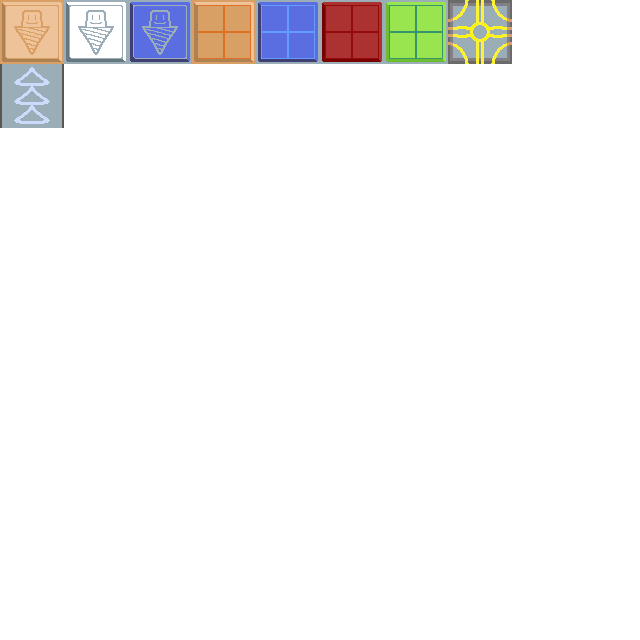
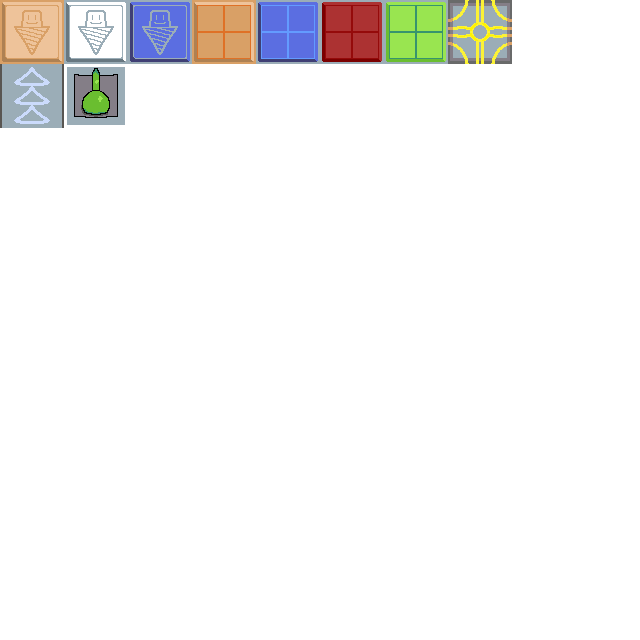
Pre-stable release

Changed region(s): [[0.0938, 0.0938, 0.2188, 0.2188]]

diff --git a/main.py b/main.py
@@ -21,17 +21,25 @@ if __name__ == "__main__":
 import random
 from PyQt5 import Qt
 from pygame_textinput import TextInputVisualizer
-from config import release, music_player
+from assets.scripts.config import release, music_player
 from assets.scripts.loggers import logger
-from assets.sprites.sprite import *
+from assets.scripts.sprite import *
 from assets.scripts.events import *
-from building import init as BuilderInit
-from button import Button, ButtonGroup
-from level import LevelLoader
-from ui import IngameUI
+from assets.scripts.building import init as BuilderInit
+from assets.scripts.button import Button, ButtonGroup
+from assets.scripts.level import LevelLoader
+from assets.scripts.ui import IngameUI
 from assets.scripts.profile_group import ProfileGroup
 from assets.scripts.fonts import *
 from assets.scripts.scroll_area import ScrollArea
+
+# class TurretGroup(pygame.sprite.Group):
+#     def __init__(self, *groups):
+#         super().__init__(*groups)
+
+#     def update(self, dt, mobs) -> None:
+#         pass
+
 
 
 class MobGroup(pygame.sprite.Group):
@@ -308,6 +316,7 @@ class Game:
         BUILDER = BuilderInit((3040, 3040), LevelLoader.ore_dict, base_rect)
 
         Bullet.init()
+
         UI = IngameUI(self.screen.get_size(), map_name, wave_info, timer_break)
         UI.initUI()
         UI.start_timer(timer_break)
@@ -321,6 +330,7 @@ class Game:
         camera_group = CameraGroup(LevelLoader.whole_map, base, player_shadow, player, BUILDER.building_sprite)
         bullet_group = pygame.sprite.Group()
         mob_group = MobGroup(spawn_rect, waypoints, camera_group)
+        Turret.set_groups(bullet_group, camera_group)
 
         def place_building_if_can():
             # Если здание выбрано к стройке и клик был не на UI
@@ -346,11 +356,6 @@ class Game:
                     pygame.quit()
                     sys.exit()
                 elif event == SAVE_AND_RETURN:
-                    print(event)
-                    if hasattr(event, 'max_score'):
-                        print("YES")
-                        print(event.max_score)
-
                     run = False
                     base = None
                     UI = None
@@ -425,7 +430,9 @@ class Game:
                         else:
                             BUILDER.delete_build_on_click(event.pos + camera_group.offset)
                 elif event == GAME_ENDED:
-                    return UI.end_game(mob_group.total_killed)
+                    score = UI.end_game(mob_group.total_killed)
+                    print('DA SCORE IS', score)
+                    return 
                 elif event == WAVE_CLEARED:
                     pass
                 elif event == WAVE_STARTS:
@@ -440,7 +447,7 @@ class Game:
             player.update(dt)
             player_shadow.update()
 
-            BUILDER.update(dt)
+            BUILDER.update(dt, mob_group)
 
             # Двигаем все выпущенные пули и проверяем коллизию
             bullet_group.update(dt / 1000)

diff --git a/assets/scripts/building.py b/assets/scripts/building.py
@@ -1,5 +1,5 @@
 import pygame
-from assets.sprites.sprite import Harvester, Wall, Conveyor
+from assets.scripts.sprite import Harvester, Wall, Conveyor, Turret
 import copy
 import os.path
 
@@ -42,6 +42,7 @@ def init(level_size, ore_dict, base_pos):
     spriteSheetData[0][5] = ('Hematite wall', 'Wall', 300)
     spriteSheetData[0][6] = ('Emerald wall', 'Wall', 500)
     spriteSheetData[1][0] = ('Conveyor', 'Conveyor', 50)
+    spriteSheetData[1][1] = ('Emerald turret', 'Turret', 100)
 
     # Загружаем spritesheet с 3x3 зданиями
     pass
@@ -61,6 +62,7 @@ def init(level_size, ore_dict, base_pos):
         # Группы с апдейтами
         harvester_group = StructureGroup()
         conveyers_group = StructureGroup()
+        turret_group = StructureGroup()
 
         conveyors_to_looks = dict()  # Used by conveyors in self with "rects_to_conveyors"
         rects_to_conveyors = dict()  # Used by harvesters
@@ -78,9 +80,10 @@ def init(level_size, ore_dict, base_pos):
             cls.build_registry.append(build)
         
         @classmethod
-        def update(cls, dt):
+        def update(cls, dt, mobs=None):
             cls.harvester_group.update(dt / 1000)
             cls.conveyers_group.update(dt / 1000, cls.rects_to_conveyors, base_pos)
+            cls.turret_group.update(dt, mobs)
 
         @classmethod
         def lock(cls):
@@ -110,6 +113,8 @@ def init(level_size, ore_dict, base_pos):
                     if is_conveyor:
                         for harvester in cls.harvester_group.sprites:
                             harvester.update_conveyor_info(cls.rects_to_conveyors)
+                    elif build.type == 'Turret':
+                        cls.turret_group.remove(build)
 
                     if build in cls.harvester_group:
                         cls.harvester_group.remove(build)
@@ -170,6 +175,8 @@ def init(level_size, ore_dict, base_pos):
 
                 for sprite in cls.harvester_group.sprites:
                     sprite.update_conveyor_info(cls.rects_to_conveyors)
+            elif building.type == 'Turret':
+                cls.turret_group.add(building)
 
             cls.building_sprite.image = cls.buildings_surface
             cls.built_buildings.append(building)
@@ -192,6 +199,8 @@ def init(level_size, ore_dict, base_pos):
                     structure = Wall(name, surface, health)
                 elif building_type == 'Conveyor':
                     structure = Conveyor(name, surface, health)
+                elif building_type == 'Turret':
+                    structure = Turret(name, surface, health)
 
                 BuildManager.append(structure)
     

diff --git a/assets/scripts/sprite.py b/assets/scripts/sprite.py
@@ -142,10 +142,14 @@ class Bullet(Sprite):
     speed = 800
     display_layer = 5
 
-    def __init__(self, pos, *groups) -> None:
+    def __init__(self, pos, direction=None, *groups) -> None:
         super().__init__(*groups)
-        self.direction = pygame.math.Vector2(
-            pygame.mouse.get_pos()) - (self.half_w, self.half_h)
+        if not direction:
+            self.direction = pygame.math.Vector2(
+                pygame.mouse.get_pos()) - (self.half_w, self.half_h)
+        else:
+            self.direction = direction
+
         self.direction.scale_to_length(1)
         rotate_angle = math.degrees(math.atan2(
             self.direction.x, self.direction.y))
@@ -255,6 +259,45 @@ class Player(Sprite):
             self.rect.center = newPos
         else:
             self.is_moving = False
+
+
+class Turret(Structure):
+    distance = 500
+    firerate = 5  # Bullets per second
+
+    def __init__(self, name, image, health, *groups) -> None:
+        super().__init__(name, 'Turret', image, health, *groups)
+        self.idle = 0
+
+    def find_closest_enemy(self, mobs):
+        closest_mob = None
+        distance_to_him = 99999
+        if mobs:
+            for mob in mobs:
+                mobPos = pygame.math.Vector2(mob.rect.center)
+                turretPos = pygame.math.Vector2(self.rect.center)
+                distance = (mobPos - turretPos).magnitude()
+
+                if distance < self.distance:
+                    closest_mob = mobPos
+                    distance_to_him = distance
+
+        return closest_mob, distance_to_him
+
+    @classmethod
+    def set_groups(cls, bg, cg):
+        cls.bullet_group = bg
+        cls.camera_group = cg
+
+    def update(self, dt, mobs):
+        mob_pos, distance = self.find_closest_enemy(mobs)
+        self.idle += dt / 1000
+        if mob_pos:  # If it was found
+            shooting_vector = mob_pos - self.rect.center
+
+            if self.idle > 1 / self.firerate:
+                Bullet(self.rect.center, shooting_vector, self.bullet_group, self.camera_group)
+                self.idle = 0
 
 
 class Enemy(Sprite):

diff --git a/assets/scripts/ui.py b/assets/scripts/ui.py
@@ -65,7 +65,8 @@ class IngameUI:
         Placeables = {
             'Harvester': ['Copper drill', 'Hematite drill', 'Titan drill'],
             'Wall': ['Copper wall', 'Titan wall', 'Hematite wall', 'Emerald wall'],
-            'Conveyor': ['Conveyor']
+            'Conveyor': ['Conveyor'],
+            'Turret': ['Emerald turret']
         }
 
         # Создаём кнопки категорий и контейнеры для них
@@ -90,6 +91,7 @@ class IngameUI:
         for build_type, buildings in Placeables.items():
             container = getattr(self, f'{build_type.lower()}_container')
             for i, build in enumerate(buildings):
+                print(f'#{build.replace(" ", "_")}')
                 y, x = divmod(i, 4)
                 button = pygame_gui.elements.UIButton(relative_rect=pygame.Rect(x * 50, y * 50, 50, 50),
                                                       text=build,
@@ -114,10 +116,10 @@ class IngameUI:
                                                            text='Continue',
                                                            **pause_kwargs)
         self.return_button = pygame_gui.elements.UIButton(pygame.Rect(-4, 80, 161, 40),
-                                                          text='Save and return',
+                                                          text='Return',
                                                           **pause_kwargs)
         self.quit_button = pygame_gui.elements.UIButton(pygame.Rect(-4, 120, 161, 40),
-                                                        text='Save and quit',
+                                                        text='Quit',
                                                         **pause_kwargs)
 
         # НАДПИСИ НА ЭКРАНЕ. ПОДСКАЗКИ

diff --git a/assets/scripts/scroll_area.py b/assets/scripts/scroll_area.py
@@ -1,7 +1,7 @@
 import pygame as pg
 from typing import Union, Callable, Any
 from assets.scripts.fonts import *
-from button import SurfaceButton, ButtonGroup
+from assets.scripts.button import SurfaceButton, ButtonGroup
 
 
 class ScrollArea:
@@ -79,8 +79,7 @@ class ScrollArea:
 
         for button in self.buttons:
             if clicked_button is button:
-                score = self.send_data(button.data)
-                print('THE SCORE IS:', score)
+                self.send_data(button.data)
                 break
         else:
             return True

diff --git a/assets/scripts/events.py b/assets/scripts/events.py
@@ -5,5 +5,5 @@ import pygame
 SAVE_AND_RETURN = pygame.event.Event(pygame.USEREVENT, action="save and return")
 WAVE_CLEARED = pygame.event.Event(pygame.USEREVENT, action="wave cleared")
 WAVE_STARTS = pygame.event.Event(pygame.USEREVENT, action="wave starts")
-GAME_ENDED = pygame.event.Event(pygame.USEREVENT, action='game ended')
+GAME_ENDED = pygame.event.Event(pygame.USEREVENT, action='game ended', score=0)
 MOB_KILLED = pygame.event.Event(pygame.USEREVENT, action='mob killed')

diff --git a/assets/scripts/profile_group.py b/assets/scripts/profile_group.py
@@ -1,8 +1,8 @@
 import pygame
 
 from assets.scripts.path_module import path_to_asset, path_to_userdata
-from config import user
-from button import Button, ButtonImage, ButtonGroup
+from assets.scripts.config import user
+from assets.scripts.button import Button, ButtonImage, ButtonGroup
 from assets.scripts.auth_window import AuthWindow
 from assets.scripts.profile_window import ProfileWindow
 

diff --git a/assets/scripts/profile_window.py b/assets/scripts/profile_window.py
@@ -4,7 +4,7 @@ from PyQt5.QtCore import Qt as Qt2
 from PyQt5.QtWidgets import QDialog, QPushButton, QLineEdit, QLabel, QFileDialog
 from PyQt5.QtGui import QPixmap
 from assets.scripts.path_module import path_to_file, path_to_userdata, copy_file
-from config import user
+from assets.scripts.config import user
 from assets.scripts.loggers import logger
 
 

diff --git a/assets/scripts/auth_window.py b/assets/scripts/auth_window.py
@@ -1,7 +1,7 @@
 from PyQt5 import Qt, uic
 from PyQt5.QtWidgets import QDialog, QPushButton, QLineEdit, QLabel, QComboBox
 from assets.scripts.path_module import path_to_file
-from config import user
+from assets.scripts.config import user
 
 
 class AuthWindow(QDialog):

diff --git a/assets/scripts/level.py b/assets/scripts/level.py
@@ -1,7 +1,7 @@
 import pygame
 
 from pytmx.util_pygame import load_pygame
-from assets.sprites.sprite import Tile, VectorShadow
+from assets.scripts.sprite import Tile, VectorShadow
 from assets.scripts.path_module import path_to_asset
 
 
